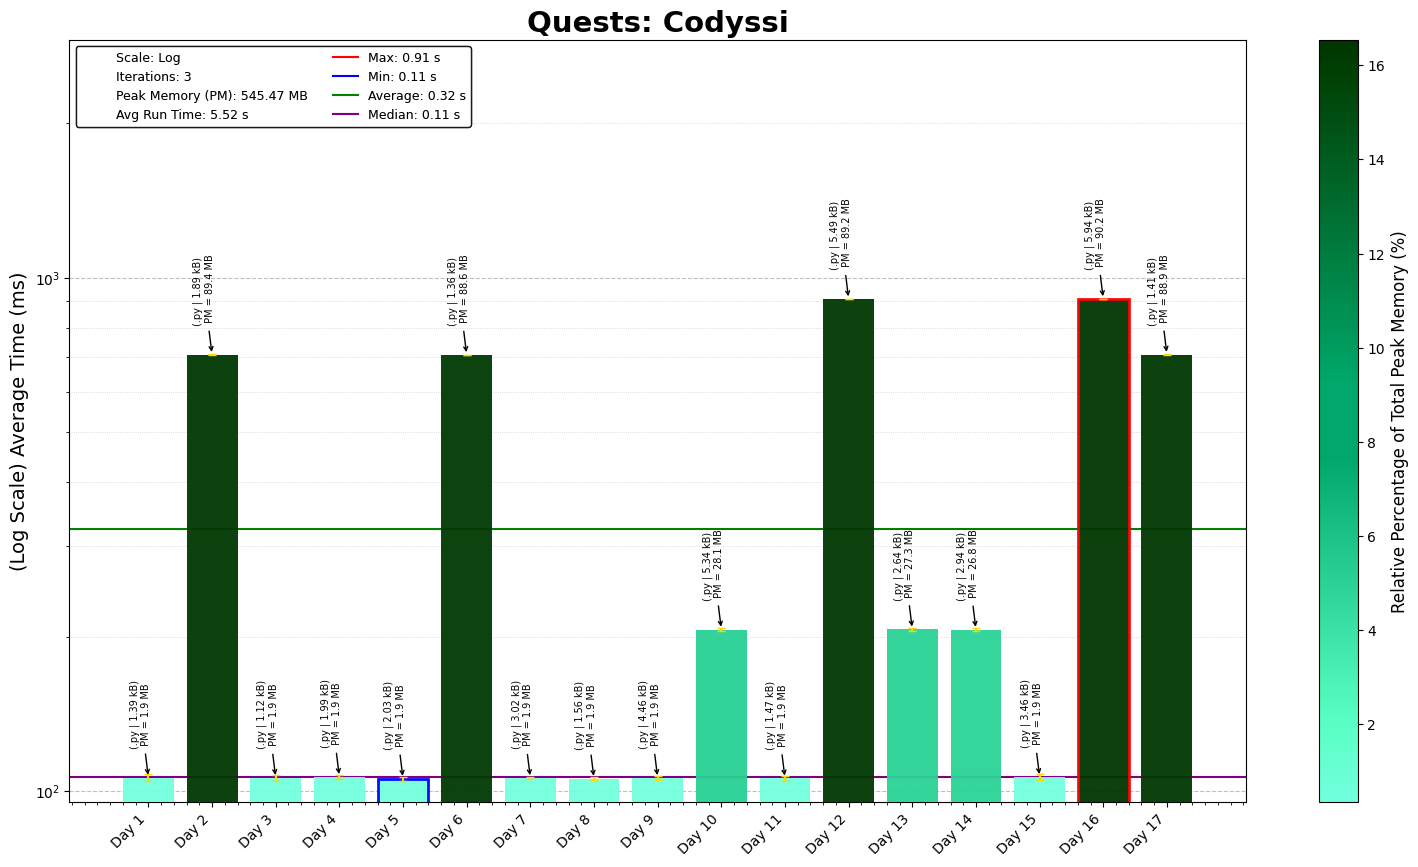
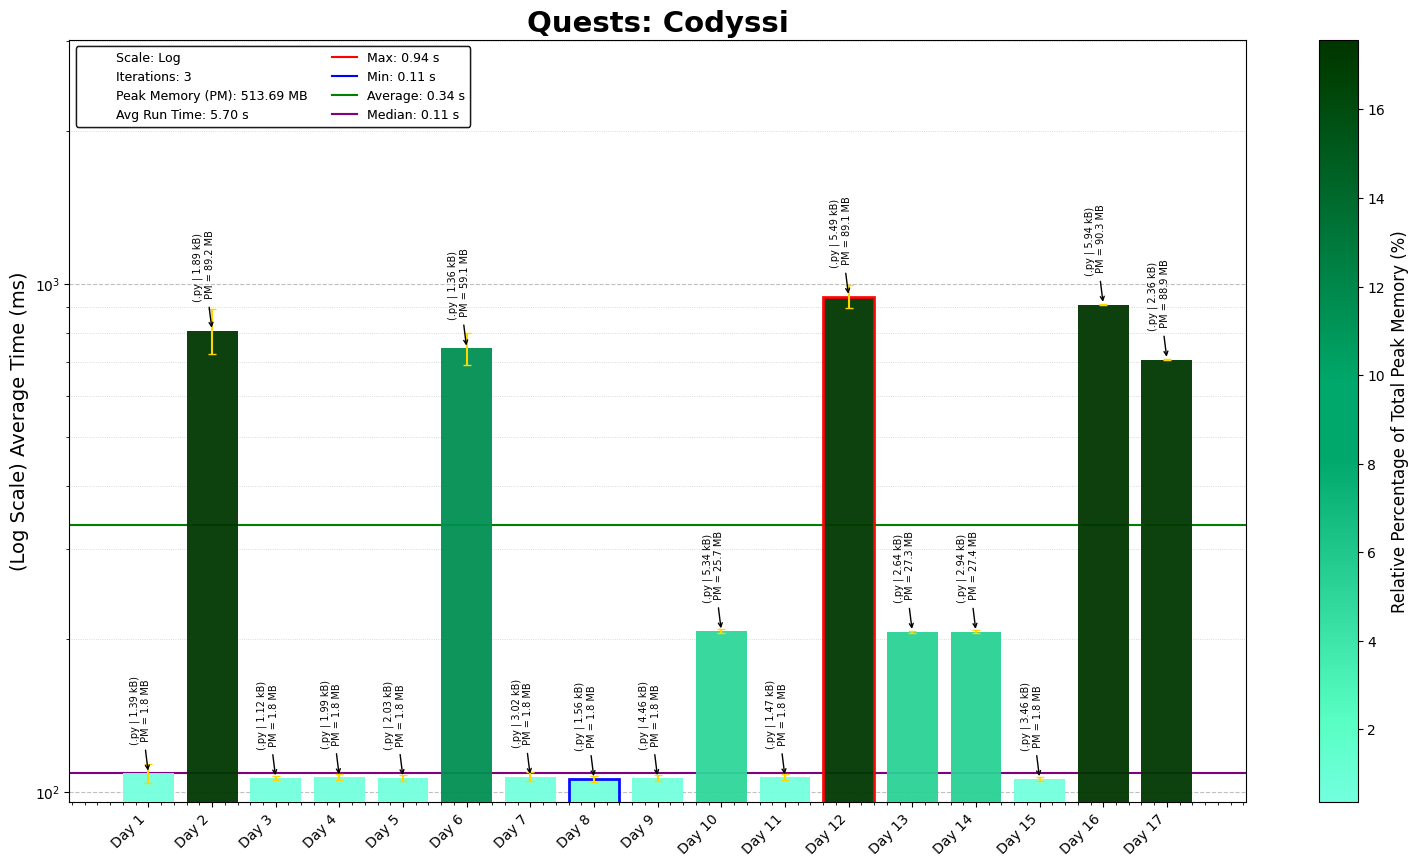
Codyssi Day 17 P1

diff --git a/Codyssi/2025/17/CodyssiDay17.py b/Codyssi/2025/17/CodyssiDay17.py
@@ -14,7 +14,7 @@ import matplotlib.pyplot as plt
 start_time = time.time()
 
 # Load the input data from the specified file path
-D17_file = "Day17_input1.txt"
+D17_file = "Day17_input.txt"
 D17_file_path = os.path.join(os.path.dirname(os.path.abspath(__file__)), D17_file)
 
 # Read and sort input data into a grid
@@ -33,14 +33,39 @@ class Staircase:
                     info_list[7], info_list[9])
         return useful
 
+    def __possible_steps(self, steps, valid_moves):
+        step_paths = {}
+        for step_idx, start_step in enumerate(steps):
+            fwd_steps = steps[step_idx + 1:]
+            for next_step in fwd_steps:
+                step_len = next_step - start_step
+                if step_len in valid_moves:
+                    step_paths.setdefault(start_step, []).append(next_step)
+        return step_paths
+
     def count_paths(self, possible_moves):
-        first, last = self.step_info[0], self.step_info[-1]
-        print(first, last)
-        return len(possible_moves)
+        start, end = self.step_info[0][1], self.step_info[0][2]
+        all_steps = list(range(start, end + 1))
+        step_dict = self.__possible_steps(all_steps, possible_moves)
+
+        history = {}
+
+        def dfs(current):
+            if current == end: # If current is final step, count 1
+                return 1
+            if current in history: # If current is in history return to that point
+                return history[current]
+            total = 0
+            for next_step in step_dict.get(current, []):
+                total += dfs(next_step)
+            history[current] = total
+            return total
+
+        return dfs(start)
 
 stairs = Staircase(steps)
 
 valid_paths = stairs.count_paths(possible_moves)
-print("Part 1:", valid_paths)
+print("Part 1:", (valid_paths))
 
 print(f"Execution Time = {time.time() - start_time:.5f}s")
